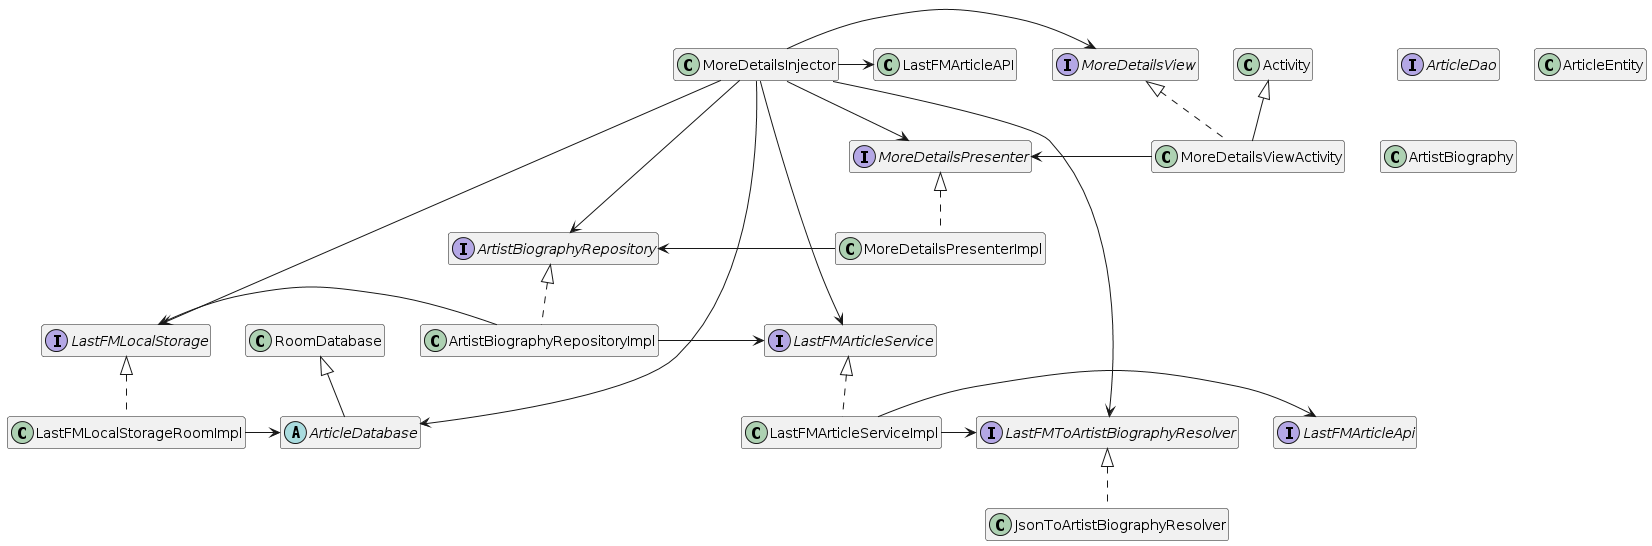
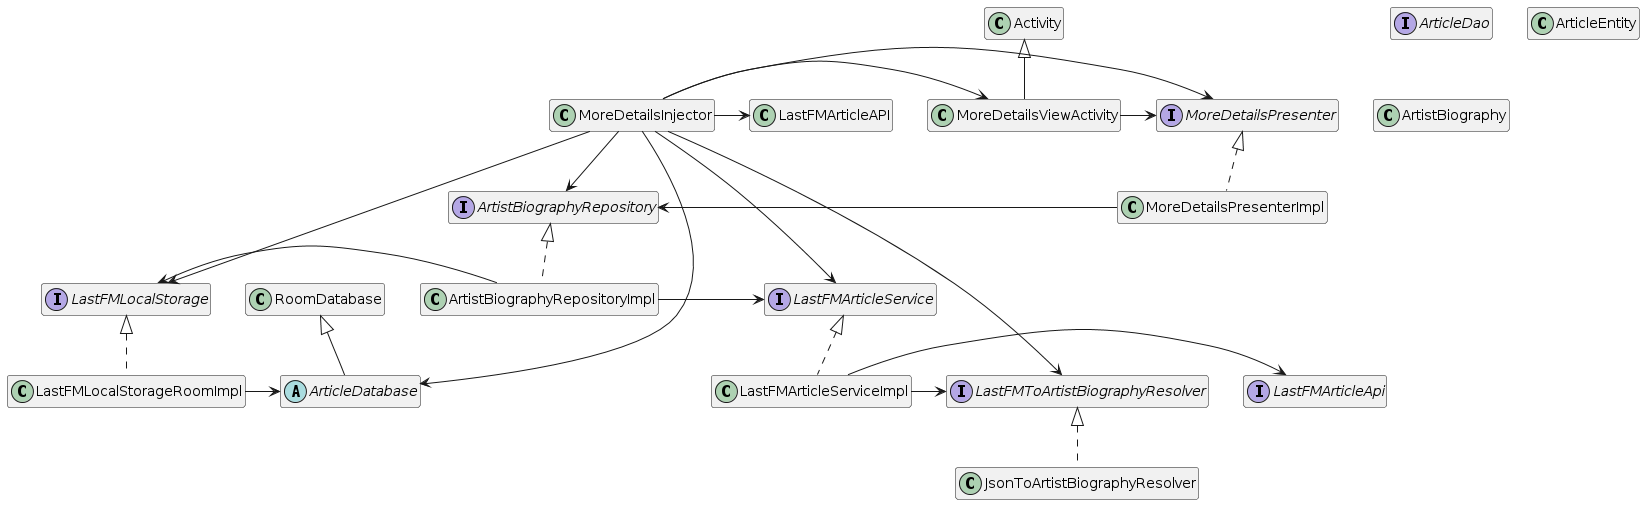
MoreDetailsView interface removed

diff --git a/app/src/main/java/ayds/songinfo/moredetails/MoreDetailsInjector.kt b/app/src/main/java/ayds/songinfo/moredetails/MoreDetailsInjector.kt
@@ -1,6 +1,5 @@
 package ayds.songinfo.moredetails
 
-import android.content.Context
 import androidx.room.Room
 import ayds.songinfo.moredetails.data.ArtistBiographyRepositoryImpl
 import ayds.songinfo.moredetails.data.external.lastFM.LastFMArticleService
@@ -14,7 +13,7 @@ import ayds.songinfo.moredetails.data.local.lastFM.room.LastFMLocalStorageRoomIm
 import ayds.songinfo.moredetails.domain.ArtistBiographyRepository
 import ayds.songinfo.moredetails.presentation.MoreDetailsPresenter
 import ayds.songinfo.moredetails.presentation.MoreDetailsPresenterImpl
-import ayds.songinfo.moredetails.presentation.MoreDetailsView
+import ayds.songinfo.moredetails.presentation.MoreDetailsViewActivity
 import retrofit2.Retrofit
 import retrofit2.converter.scalars.ScalarsConverterFactory
 
@@ -22,7 +21,7 @@ object MoreDetailsInjector {
     private const val ARTICLE_DATABASE_NAME = "database-name-thename"
     private const val LASTFM_BASE_URL = "https://ws.audioscrobbler.com/2.0/"
 
-    private lateinit var moreDetailsView: MoreDetailsView
+    private lateinit var moreDetailsViewActivity: MoreDetailsViewActivity
     private lateinit var moreDetailsPresenter: MoreDetailsPresenter
 
     private lateinit var artistBiographyRepository: ArtistBiographyRepository
@@ -37,8 +36,8 @@ object MoreDetailsInjector {
 
     fun getMoreDetailsPresenter() = moreDetailsPresenter
 
-    fun init(moreDetailsView: MoreDetailsView){
-        initMoreDetailsView(moreDetailsView)
+    fun init(moreDetailsViewActivity: MoreDetailsViewActivity){
+        initMoreDetailsView(moreDetailsViewActivity)
 
         initArticleDatabase()
         initLastFMArticleAPI()
@@ -53,13 +52,13 @@ object MoreDetailsInjector {
         initMoreDetailsPresenter()
     }
 
-    private fun initMoreDetailsView(moreDetailsView: MoreDetailsView){
-        this.moreDetailsView = moreDetailsView
+    private fun initMoreDetailsView(moreDetailsViewActivity: MoreDetailsViewActivity){
+        this.moreDetailsViewActivity = moreDetailsViewActivity
     }
 
     private fun initArticleDatabase() {
         articleDatabase =
-            Room.databaseBuilder(moreDetailsView as Context, ArticleDatabase::class.java, ARTICLE_DATABASE_NAME).build()
+            Room.databaseBuilder(moreDetailsViewActivity, ArticleDatabase::class.java, ARTICLE_DATABASE_NAME).build()
     }
 
     private fun initLastFMArticleAPI() {

diff --git a/app/src/main/java/ayds/songinfo/moredetails/presentation/MoreDetailsView.kt b/app/src/main/java/ayds/songinfo/moredetails/presentation/MoreDetailsView.kt
@@ -13,10 +13,7 @@ import ayds.songinfo.moredetails.domain.ArtistBiography
 import com.squareup.picasso.Picasso
 import java.util.Locale
 
-interface MoreDetailsView{
-}
-
-class MoreDetailsViewActivity : Activity(), MoreDetailsView {
+class MoreDetailsViewActivity : Activity() {
     private lateinit var articleTextView: TextView
     private lateinit var lastFMLogoImageView: ImageView
     private lateinit var openUrlButton: Button
